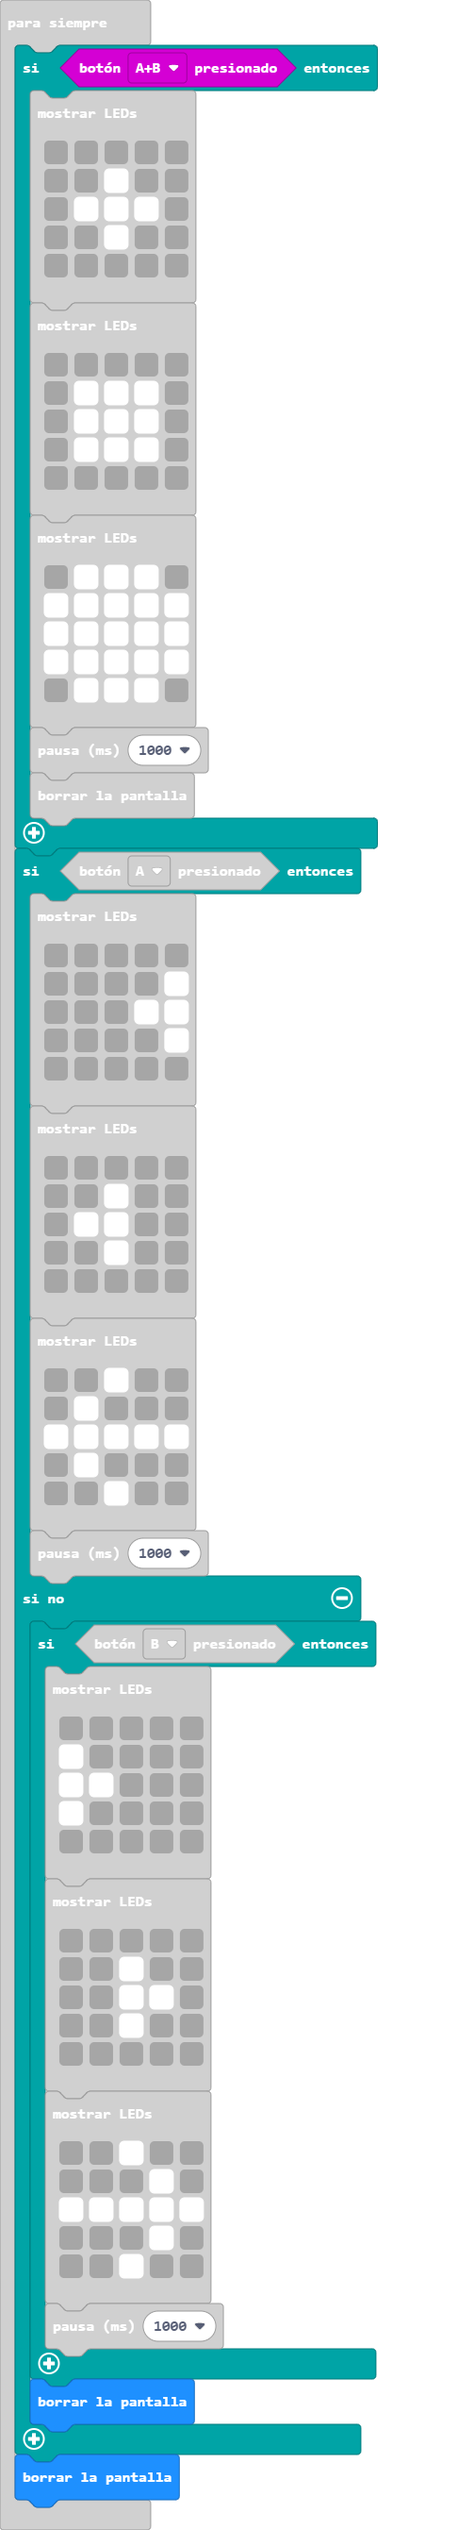
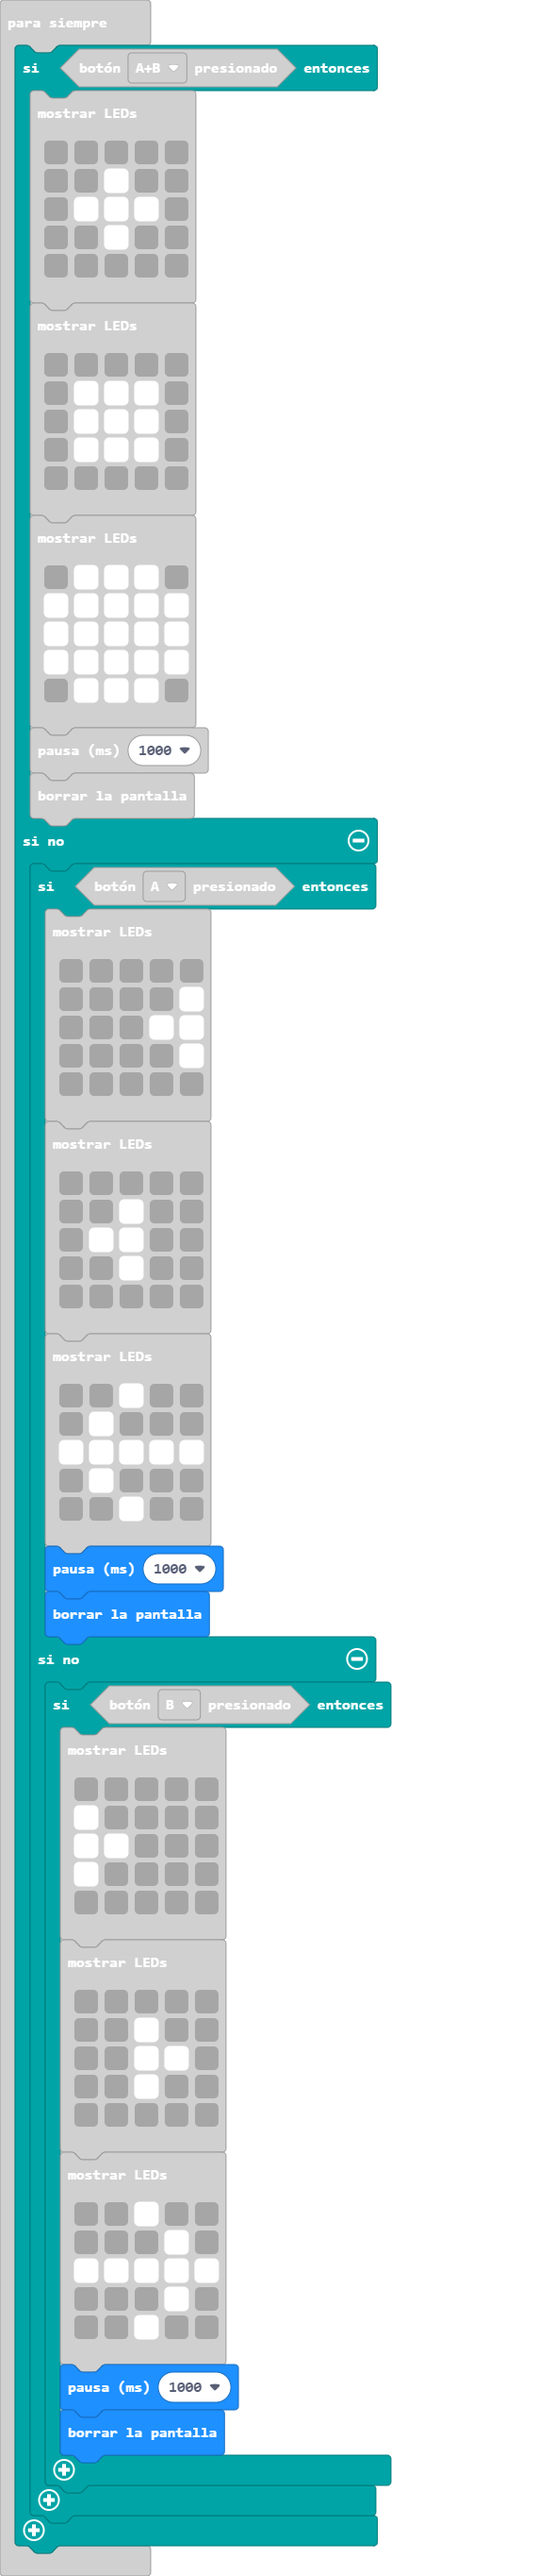
Update main.blocks, main.ts

Changed region(s): [[0.0, 0.0, 0.8052, 1.0]]

diff --git a/main.ts b/main.ts
@@ -47,56 +47,57 @@ basic.forever(function () {
             `)
         basic.pause(1000)
         basic.clearScreen()
-    }
-    if (input.buttonIsPressed(Button.A)) {
-        basic.showLeds(`
-            . . . . .
-            . . . . #
-            . . . # #
-            . . . . #
-            . . . . .
-            `)
-        basic.showLeds(`
-            . . . . .
-            . . # . .
-            . # # . .
-            . . # . .
-            . . . . .
-            `)
-        basic.showLeds(`
-            . . # . .
-            . # . . .
-            # # # # #
-            . # . . .
-            . . # . .
-            `)
-        basic.pause(1000)
     } else {
-        if (input.buttonIsPressed(Button.B)) {
+        if (input.buttonIsPressed(Button.A)) {
             basic.showLeds(`
                 . . . . .
-                # . . . .
-                # # . . .
-                # . . . .
+                . . . . #
+                . . . # #
+                . . . . #
                 . . . . .
                 `)
             basic.showLeds(`
                 . . . . .
                 . . # . .
-                . . # # .
+                . # # . .
                 . . # . .
                 . . . . .
                 `)
             basic.showLeds(`
                 . . # . .
-                . . . # .
+                . # . . .
                 # # # # #
-                . . . # .
+                . # . . .
                 . . # . .
                 `)
             basic.pause(1000)
+            basic.clearScreen()
+        } else {
+            if (input.buttonIsPressed(Button.B)) {
+                basic.showLeds(`
+                    . . . . .
+                    # . . . .
+                    # # . . .
+                    # . . . .
+                    . . . . .
+                    `)
+                basic.showLeds(`
+                    . . . . .
+                    . . # . .
+                    . . # # .
+                    . . # . .
+                    . . . . .
+                    `)
+                basic.showLeds(`
+                    . . # . .
+                    . . . # .
+                    # # # # #
+                    . . . # .
+                    . . # . .
+                    `)
+                basic.pause(1000)
+                basic.clearScreen()
+            }
         }
-        basic.clearScreen()
     }
-    basic.clearScreen()
 })
